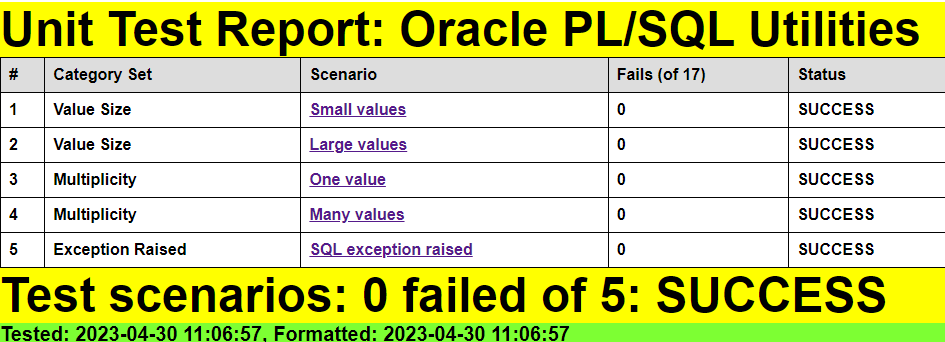
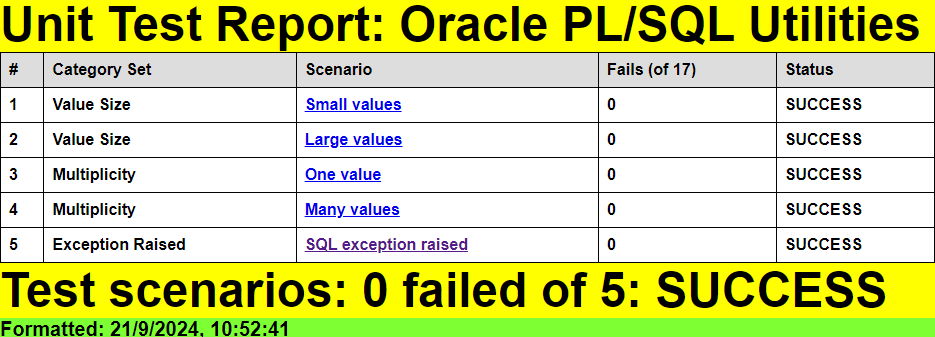
ORA-00942 exception now regex expected value; minor format changes
Oracle 23 has improved text of the exception so need to use '.*' after code for cross-version compatibility; also, small update in bundled JavaScript formatter

Changed region(s): [[0.0, 0.0, 1.0, 0.9199], [0.0, 0.9496, 0.6203, 1.0]]

diff --git a/unit_test/oracle-pl_sql-utilities/many-values.html b/unit_test/oracle-pl_sql-utilities/many-values.html
@@ -431,40 +431,40 @@ h4 {margin-top: 0em; margin-bottom: 0em;
 <h4>GROUP 7: View To List</h4>
 <table>
 <tr><th>#</th><th>Delimited String</th></tr>
-<tr><td>1</td><td>LIKE /CHR_INT_ARR\|\|\d+?\|\|TYPE\|.*?\|.*?\|.*?\|.*?\|.*?\|.*?\|.*?\|.*?\|.*?\|.*?\|.*?\|.*?\|.*?\|.*?\|.*?\|.*?\|.*?\|.*?\|.*?\|.*?/: CHR_INT_ARR||173248||TYPE|12-MAY-2024|12-MAY-2024|2024-05-12:16:39:52|VALID|N|N|N|1||NONE|Y|N|N|USING_NLS_COMP|N|N||||</td></tr>
-<tr><td>2</td><td>LIKE /CHR_INT_REC\|\|\d+?\|\|TYPE\|.*?\|.*?\|.*?\|.*?\|.*?\|.*?\|.*?\|.*?\|.*?\|.*?\|.*?\|.*?\|.*?\|.*?\|.*?\|.*?\|.*?\|.*?\|.*?\|.*?/: CHR_INT_REC||173247||TYPE|12-MAY-2024|12-MAY-2024|2024-05-12:16:39:52|VALID|N|N|N|1||NONE|Y|N|N|USING_NLS_COMP|N|N||||</td></tr>
-<tr><td>3</td><td>LIKE /L1_CHR_ARR\|\|\d+?\|\|TYPE\|.*?\|.*?\|.*?\|.*?\|.*?\|.*?\|.*?\|.*?\|.*?\|.*?\|.*?\|.*?\|.*?\|.*?\|.*?\|.*?\|.*?\|.*?\|.*?\|.*?/: L1_CHR_ARR||173245||TYPE|12-MAY-2024|12-MAY-2024|2024-05-12:16:39:52|VALID|N|N|N|1||NONE|Y|N|N|USING_NLS_COMP|N|N||||</td></tr>
-<tr><td>4</td><td>LIKE /L1_NUM_ARR\|\|\d+?\|\|TYPE\|.*?\|.*?\|.*?\|.*?\|.*?\|.*?\|.*?\|.*?\|.*?\|.*?\|.*?\|.*?\|.*?\|.*?\|.*?\|.*?\|.*?\|.*?\|.*?\|.*?/: L1_NUM_ARR||173246||TYPE|12-MAY-2024|12-MAY-2024|2024-05-12:16:39:52|VALID|N|N|N|1||NONE|Y|N|N|USING_NLS_COMP|N|N||||</td></tr>
-<tr><td>5</td><td>LIKE /L2_CHR_ARR\|\|\d+?\|\|TYPE\|.*?\|.*?\|.*?\|.*?\|.*?\|.*?\|.*?\|.*?\|.*?\|.*?\|.*?\|.*?\|.*?\|.*?\|.*?\|.*?\|.*?\|.*?\|.*?\|.*?/: L2_CHR_ARR||173251||TYPE|12-MAY-2024|12-MAY-2024|2024-05-12:16:40:15|VALID|N|N|N|1||NONE|Y|N|N|USING_NLS_COMP|N|N||||</td></tr>
-<tr><td>6</td><td>LIKE /L3_CHR_ARR\|\|\d+?\|\|TYPE\|.*?\|.*?\|.*?\|.*?\|.*?\|.*?\|.*?\|.*?\|.*?\|.*?\|.*?\|.*?\|.*?\|.*?\|.*?\|.*?\|.*?\|.*?\|.*?\|.*?/: L3_CHR_ARR||173252||TYPE|12-MAY-2024|12-MAY-2024|2024-05-12:16:40:15|VALID|N|N|N|1||NONE|Y|N|N|USING_NLS_COMP|N|N||||</td></tr>
-<tr><td>7</td><td>LIKE /L4_CHR_ARR\|\|\d+?\|\|TYPE\|.*?\|.*?\|.*?\|.*?\|.*?\|.*?\|.*?\|.*?\|.*?\|.*?\|.*?\|.*?\|.*?\|.*?\|.*?\|.*?\|.*?\|.*?\|.*?\|.*?/: L4_CHR_ARR||173253||TYPE|12-MAY-2024|12-MAY-2024|2024-05-12:16:40:15|VALID|N|N|N|1||NONE|Y|N|N|USING_NLS_COMP|N|N||||</td></tr>
-<tr><td>8</td><td>LIKE /TT_UNITS\|\|\d+?\|\d+?\|TABLE\|.*?\|.*?\|.*?\|.*?\|.*?\|.*?\|.*?\|.*?\|.*?\|.*?\|.*?\|.*?\|.*?\|.*?\|.*?\|.*?\|.*?\|.*?\|.*?\|.*?/: TT_UNITS||173254|173254|TABLE|12-MAY-2024|12-MAY-2024|2024-05-12:16:40:15|VALID|N|N|N|1||NONE||N|N|USING_NLS_COMP|N|N||||</td></tr>
+<tr><td>1</td><td>LIKE /CHR_INT_ARR\|\|\d+?\|\|TYPE\|.*?\|.*?\|.*?\|.*?\|.*?\|.*?\|.*?\|.*?\|.*?\|.*?\|.*?\|.*?\|.*?\|.*?\|.*?\|.*?\|.*?\|.*?\|.*?\|.*?/: CHR_INT_ARR||75050||TYPE|21-SEP-2024|21-SEP-2024|2024-09-21:10:45:33|VALID|N|N|N|1||NONE|Y|N|N|USING_NLS_COMP|N|N||||</td></tr>
+<tr><td>2</td><td>LIKE /CHR_INT_REC\|\|\d+?\|\|TYPE\|.*?\|.*?\|.*?\|.*?\|.*?\|.*?\|.*?\|.*?\|.*?\|.*?\|.*?\|.*?\|.*?\|.*?\|.*?\|.*?\|.*?\|.*?\|.*?\|.*?/: CHR_INT_REC||75049||TYPE|07-JUL-2024|07-JUL-2024|2024-07-07:11:08:01|VALID|N|N|N|1||NONE|Y|N|N|USING_NLS_COMP|N|N||||</td></tr>
+<tr><td>3</td><td>LIKE /L1_CHR_ARR\|\|\d+?\|\|TYPE\|.*?\|.*?\|.*?\|.*?\|.*?\|.*?\|.*?\|.*?\|.*?\|.*?\|.*?\|.*?\|.*?\|.*?\|.*?\|.*?\|.*?\|.*?\|.*?\|.*?/: L1_CHR_ARR||75047||TYPE|07-JUL-2024|07-JUL-2024|2024-07-07:11:08:01|VALID|N|N|N|1||NONE|Y|N|N|USING_NLS_COMP|N|N||||</td></tr>
+<tr><td>4</td><td>LIKE /L1_NUM_ARR\|\|\d+?\|\|TYPE\|.*?\|.*?\|.*?\|.*?\|.*?\|.*?\|.*?\|.*?\|.*?\|.*?\|.*?\|.*?\|.*?\|.*?\|.*?\|.*?\|.*?\|.*?\|.*?\|.*?/: L1_NUM_ARR||75048||TYPE|07-JUL-2024|07-JUL-2024|2024-07-07:11:08:01|VALID|N|N|N|1||NONE|Y|N|N|USING_NLS_COMP|N|N||||</td></tr>
+<tr><td>5</td><td>LIKE /L2_CHR_ARR\|\|\d+?\|\|TYPE\|.*?\|.*?\|.*?\|.*?\|.*?\|.*?\|.*?\|.*?\|.*?\|.*?\|.*?\|.*?\|.*?\|.*?\|.*?\|.*?\|.*?\|.*?\|.*?\|.*?/: L2_CHR_ARR||75053||TYPE|07-JUL-2024|07-JUL-2024|2024-07-07:11:08:01|VALID|N|N|N|1||NONE|Y|N|N|USING_NLS_COMP|N|N||||</td></tr>
+<tr><td>6</td><td>LIKE /L3_CHR_ARR\|\|\d+?\|\|TYPE\|.*?\|.*?\|.*?\|.*?\|.*?\|.*?\|.*?\|.*?\|.*?\|.*?\|.*?\|.*?\|.*?\|.*?\|.*?\|.*?\|.*?\|.*?\|.*?\|.*?/: L3_CHR_ARR||75054||TYPE|21-SEP-2024|21-SEP-2024|2024-09-21:10:45:33|VALID|N|N|N|1||NONE|Y|N|N|USING_NLS_COMP|N|N||||</td></tr>
+<tr><td>7</td><td>LIKE /L4_CHR_ARR\|\|\d+?\|\|TYPE\|.*?\|.*?\|.*?\|.*?\|.*?\|.*?\|.*?\|.*?\|.*?\|.*?\|.*?\|.*?\|.*?\|.*?\|.*?\|.*?\|.*?\|.*?\|.*?\|.*?/: L4_CHR_ARR||75055||TYPE|21-SEP-2024|21-SEP-2024|2024-09-21:10:45:33|VALID|N|N|N|1||NONE|Y|N|N|USING_NLS_COMP|N|N||||</td></tr>
+<tr><td>8</td><td>LIKE /TT_UNITS\|\|\d+?\|\d+?\|TABLE\|.*?\|.*?\|.*?\|.*?\|.*?\|.*?\|.*?\|.*?\|.*?\|.*?\|.*?\|.*?\|.*?\|.*?\|.*?\|.*?\|.*?\|.*?\|.*?\|.*?/: TT_UNITS||75282|75282|TABLE|21-SEP-2024|21-SEP-2024|2024-09-21:10:45:33|VALID|N|N|N|1||NONE||N|N|USING_NLS_COMP|N|N||||</td></tr>
 </table>
 <h4>0 failed of 8: SUCCESS</h4>
 <h4>GROUP 8: Cursor To List</h4>
 <table>
 <tr><th>#</th><th>Delimited String</th></tr>
-<tr><td>1</td><td>LIKE /CHR_INT_ARR\|\|\d+?\|\|TYPE\|.*?\|.*?\|.*?\|.*?\|.*?\|.*?\|.*?\|.*?\|.*?\|.*?\|.*?\|.*?\|.*?\|.*?\|.*?\|.*?\|.*?\|.*?\|.*?\|.*?/: CHR_INT_ARR||173248||TYPE|12-MAY-2024|12-MAY-2024|2024-05-12:16:39:52|VALID|N|N|N|1||NONE|Y|N|N|USING_NLS_COMP|N|N||||</td></tr>
-<tr><td>2</td><td>LIKE /CHR_INT_REC\|\|\d+?\|\|TYPE\|.*?\|.*?\|.*?\|.*?\|.*?\|.*?\|.*?\|.*?\|.*?\|.*?\|.*?\|.*?\|.*?\|.*?\|.*?\|.*?\|.*?\|.*?\|.*?\|.*?/: CHR_INT_REC||173247||TYPE|12-MAY-2024|12-MAY-2024|2024-05-12:16:39:52|VALID|N|N|N|1||NONE|Y|N|N|USING_NLS_COMP|N|N||||</td></tr>
-<tr><td>3</td><td>LIKE /L1_CHR_ARR\|\|\d+?\|\|TYPE\|.*?\|.*?\|.*?\|.*?\|.*?\|.*?\|.*?\|.*?\|.*?\|.*?\|.*?\|.*?\|.*?\|.*?\|.*?\|.*?\|.*?\|.*?\|.*?\|.*?/: L1_CHR_ARR||173245||TYPE|12-MAY-2024|12-MAY-2024|2024-05-12:16:39:52|VALID|N|N|N|1||NONE|Y|N|N|USING_NLS_COMP|N|N||||</td></tr>
-<tr><td>4</td><td>LIKE /L1_NUM_ARR\|\|\d+?\|\|TYPE\|.*?\|.*?\|.*?\|.*?\|.*?\|.*?\|.*?\|.*?\|.*?\|.*?\|.*?\|.*?\|.*?\|.*?\|.*?\|.*?\|.*?\|.*?\|.*?\|.*?/: L1_NUM_ARR||173246||TYPE|12-MAY-2024|12-MAY-2024|2024-05-12:16:39:52|VALID|N|N|N|1||NONE|Y|N|N|USING_NLS_COMP|N|N||||</td></tr>
-<tr><td>5</td><td>LIKE /L2_CHR_ARR\|\|\d+?\|\|TYPE\|.*?\|.*?\|.*?\|.*?\|.*?\|.*?\|.*?\|.*?\|.*?\|.*?\|.*?\|.*?\|.*?\|.*?\|.*?\|.*?\|.*?\|.*?\|.*?\|.*?/: L2_CHR_ARR||173251||TYPE|12-MAY-2024|12-MAY-2024|2024-05-12:16:40:15|VALID|N|N|N|1||NONE|Y|N|N|USING_NLS_COMP|N|N||||</td></tr>
-<tr><td>6</td><td>LIKE /L3_CHR_ARR\|\|\d+?\|\|TYPE\|.*?\|.*?\|.*?\|.*?\|.*?\|.*?\|.*?\|.*?\|.*?\|.*?\|.*?\|.*?\|.*?\|.*?\|.*?\|.*?\|.*?\|.*?\|.*?\|.*?/: L3_CHR_ARR||173252||TYPE|12-MAY-2024|12-MAY-2024|2024-05-12:16:40:15|VALID|N|N|N|1||NONE|Y|N|N|USING_NLS_COMP|N|N||||</td></tr>
-<tr><td>7</td><td>LIKE /L4_CHR_ARR\|\|\d+?\|\|TYPE\|.*?\|.*?\|.*?\|.*?\|.*?\|.*?\|.*?\|.*?\|.*?\|.*?\|.*?\|.*?\|.*?\|.*?\|.*?\|.*?\|.*?\|.*?\|.*?\|.*?/: L4_CHR_ARR||173253||TYPE|12-MAY-2024|12-MAY-2024|2024-05-12:16:40:15|VALID|N|N|N|1||NONE|Y|N|N|USING_NLS_COMP|N|N||||</td></tr>
-<tr><td>8</td><td>LIKE /TT_UNITS\|\|\d+?\|\d+?\|TABLE\|.*?\|.*?\|.*?\|.*?\|.*?\|.*?\|.*?\|.*?\|.*?\|.*?\|.*?\|.*?\|.*?\|.*?\|.*?\|.*?\|.*?\|.*?\|.*?\|.*?/: TT_UNITS||173254|173254|TABLE|12-MAY-2024|12-MAY-2024|2024-05-12:16:40:15|VALID|N|N|N|1||NONE||N|N|USING_NLS_COMP|N|N||||</td></tr>
+<tr><td>1</td><td>LIKE /CHR_INT_ARR\|\|\d+?\|\|TYPE\|.*?\|.*?\|.*?\|.*?\|.*?\|.*?\|.*?\|.*?\|.*?\|.*?\|.*?\|.*?\|.*?\|.*?\|.*?\|.*?\|.*?\|.*?\|.*?\|.*?/: CHR_INT_ARR||75050||TYPE|21-SEP-2024|21-SEP-2024|2024-09-21:10:45:33|VALID|N|N|N|1||NONE|Y|N|N|USING_NLS_COMP|N|N||||</td></tr>
+<tr><td>2</td><td>LIKE /CHR_INT_REC\|\|\d+?\|\|TYPE\|.*?\|.*?\|.*?\|.*?\|.*?\|.*?\|.*?\|.*?\|.*?\|.*?\|.*?\|.*?\|.*?\|.*?\|.*?\|.*?\|.*?\|.*?\|.*?\|.*?/: CHR_INT_REC||75049||TYPE|07-JUL-2024|07-JUL-2024|2024-07-07:11:08:01|VALID|N|N|N|1||NONE|Y|N|N|USING_NLS_COMP|N|N||||</td></tr>
+<tr><td>3</td><td>LIKE /L1_CHR_ARR\|\|\d+?\|\|TYPE\|.*?\|.*?\|.*?\|.*?\|.*?\|.*?\|.*?\|.*?\|.*?\|.*?\|.*?\|.*?\|.*?\|.*?\|.*?\|.*?\|.*?\|.*?\|.*?\|.*?/: L1_CHR_ARR||75047||TYPE|07-JUL-2024|07-JUL-2024|2024-07-07:11:08:01|VALID|N|N|N|1||NONE|Y|N|N|USING_NLS_COMP|N|N||||</td></tr>
+<tr><td>4</td><td>LIKE /L1_NUM_ARR\|\|\d+?\|\|TYPE\|.*?\|.*?\|.*?\|.*?\|.*?\|.*?\|.*?\|.*?\|.*?\|.*?\|.*?\|.*?\|.*?\|.*?\|.*?\|.*?\|.*?\|.*?\|.*?\|.*?/: L1_NUM_ARR||75048||TYPE|07-JUL-2024|07-JUL-2024|2024-07-07:11:08:01|VALID|N|N|N|1||NONE|Y|N|N|USING_NLS_COMP|N|N||||</td></tr>
+<tr><td>5</td><td>LIKE /L2_CHR_ARR\|\|\d+?\|\|TYPE\|.*?\|.*?\|.*?\|.*?\|.*?\|.*?\|.*?\|.*?\|.*?\|.*?\|.*?\|.*?\|.*?\|.*?\|.*?\|.*?\|.*?\|.*?\|.*?\|.*?/: L2_CHR_ARR||75053||TYPE|07-JUL-2024|07-JUL-2024|2024-07-07:11:08:01|VALID|N|N|N|1||NONE|Y|N|N|USING_NLS_COMP|N|N||||</td></tr>
+<tr><td>6</td><td>LIKE /L3_CHR_ARR\|\|\d+?\|\|TYPE\|.*?\|.*?\|.*?\|.*?\|.*?\|.*?\|.*?\|.*?\|.*?\|.*?\|.*?\|.*?\|.*?\|.*?\|.*?\|.*?\|.*?\|.*?\|.*?\|.*?/: L3_CHR_ARR||75054||TYPE|21-SEP-2024|21-SEP-2024|2024-09-21:10:45:33|VALID|N|N|N|1||NONE|Y|N|N|USING_NLS_COMP|N|N||||</td></tr>
+<tr><td>7</td><td>LIKE /L4_CHR_ARR\|\|\d+?\|\|TYPE\|.*?\|.*?\|.*?\|.*?\|.*?\|.*?\|.*?\|.*?\|.*?\|.*?\|.*?\|.*?\|.*?\|.*?\|.*?\|.*?\|.*?\|.*?\|.*?\|.*?/: L4_CHR_ARR||75055||TYPE|21-SEP-2024|21-SEP-2024|2024-09-21:10:45:33|VALID|N|N|N|1||NONE|Y|N|N|USING_NLS_COMP|N|N||||</td></tr>
+<tr><td>8</td><td>LIKE /TT_UNITS\|\|\d+?\|\d+?\|TABLE\|.*?\|.*?\|.*?\|.*?\|.*?\|.*?\|.*?\|.*?\|.*?\|.*?\|.*?\|.*?\|.*?\|.*?\|.*?\|.*?\|.*?\|.*?\|.*?\|.*?/: TT_UNITS||75282|75282|TABLE|21-SEP-2024|21-SEP-2024|2024-09-21:10:45:33|VALID|N|N|N|1||NONE||N|N|USING_NLS_COMP|N|N||||</td></tr>
 </table>
 <h4>0 failed of 8: SUCCESS</h4>
 <h4>GROUP 9: Cursor To Pipe</h4>
 <table>
 <tr><th>#</th><th>Delimited String</th></tr>
-<tr><td>1</td><td>LIKE /CHR_INT_ARR\|\|\d+?\|\|TYPE\|.*?\|.*?\|.*?\|.*?\|.*?\|.*?\|.*?\|.*?\|.*?\|.*?\|.*?\|.*?\|.*?\|.*?\|.*?\|.*?\|.*?\|.*?\|.*?\|.*?/: CHR_INT_ARR||173248||TYPE|12-MAY-2024|12-MAY-2024|2024-05-12:16:39:52|VALID|N|N|N|1||NONE|Y|N|N|USING_NLS_COMP|N|N||||</td></tr>
-<tr><td>2</td><td>LIKE /CHR_INT_REC\|\|\d+?\|\|TYPE\|.*?\|.*?\|.*?\|.*?\|.*?\|.*?\|.*?\|.*?\|.*?\|.*?\|.*?\|.*?\|.*?\|.*?\|.*?\|.*?\|.*?\|.*?\|.*?\|.*?/: CHR_INT_REC||173247||TYPE|12-MAY-2024|12-MAY-2024|2024-05-12:16:39:52|VALID|N|N|N|1||NONE|Y|N|N|USING_NLS_COMP|N|N||||</td></tr>
-<tr><td>3</td><td>LIKE /L1_CHR_ARR\|\|\d+?\|\|TYPE\|.*?\|.*?\|.*?\|.*?\|.*?\|.*?\|.*?\|.*?\|.*?\|.*?\|.*?\|.*?\|.*?\|.*?\|.*?\|.*?\|.*?\|.*?\|.*?\|.*?/: L1_CHR_ARR||173245||TYPE|12-MAY-2024|12-MAY-2024|2024-05-12:16:39:52|VALID|N|N|N|1||NONE|Y|N|N|USING_NLS_COMP|N|N||||</td></tr>
-<tr><td>4</td><td>LIKE /L1_NUM_ARR\|\|\d+?\|\|TYPE\|.*?\|.*?\|.*?\|.*?\|.*?\|.*?\|.*?\|.*?\|.*?\|.*?\|.*?\|.*?\|.*?\|.*?\|.*?\|.*?\|.*?\|.*?\|.*?\|.*?/: L1_NUM_ARR||173246||TYPE|12-MAY-2024|12-MAY-2024|2024-05-12:16:39:52|VALID|N|N|N|1||NONE|Y|N|N|USING_NLS_COMP|N|N||||</td></tr>
-<tr><td>5</td><td>LIKE /L2_CHR_ARR\|\|\d+?\|\|TYPE\|.*?\|.*?\|.*?\|.*?\|.*?\|.*?\|.*?\|.*?\|.*?\|.*?\|.*?\|.*?\|.*?\|.*?\|.*?\|.*?\|.*?\|.*?\|.*?\|.*?/: L2_CHR_ARR||173251||TYPE|12-MAY-2024|12-MAY-2024|2024-05-12:16:40:15|VALID|N|N|N|1||NONE|Y|N|N|USING_NLS_COMP|N|N||||</td></tr>
-<tr><td>6</td><td>LIKE /L3_CHR_ARR\|\|\d+?\|\|TYPE\|.*?\|.*?\|.*?\|.*?\|.*?\|.*?\|.*?\|.*?\|.*?\|.*?\|.*?\|.*?\|.*?\|.*?\|.*?\|.*?\|.*?\|.*?\|.*?\|.*?/: L3_CHR_ARR||173252||TYPE|12-MAY-2024|12-MAY-2024|2024-05-12:16:40:15|VALID|N|N|N|1||NONE|Y|N|N|USING_NLS_COMP|N|N||||</td></tr>
-<tr><td>7</td><td>LIKE /L4_CHR_ARR\|\|\d+?\|\|TYPE\|.*?\|.*?\|.*?\|.*?\|.*?\|.*?\|.*?\|.*?\|.*?\|.*?\|.*?\|.*?\|.*?\|.*?\|.*?\|.*?\|.*?\|.*?\|.*?\|.*?/: L4_CHR_ARR||173253||TYPE|12-MAY-2024|12-MAY-2024|2024-05-12:16:40:15|VALID|N|N|N|1||NONE|Y|N|N|USING_NLS_COMP|N|N||||</td></tr>
-<tr><td>8</td><td>LIKE /TT_UNITS\|\|\d+?\|\d+?\|TABLE\|.*?\|.*?\|.*?\|.*?\|.*?\|.*?\|.*?\|.*?\|.*?\|.*?\|.*?\|.*?\|.*?\|.*?\|.*?\|.*?\|.*?\|.*?\|.*?\|.*?/: TT_UNITS||173254|173254|TABLE|12-MAY-2024|12-MAY-2024|2024-05-12:16:40:15|VALID|N|N|N|1||NONE||N|N|USING_NLS_COMP|N|N||||</td></tr>
+<tr><td>1</td><td>LIKE /CHR_INT_ARR\|\|\d+?\|\|TYPE\|.*?\|.*?\|.*?\|.*?\|.*?\|.*?\|.*?\|.*?\|.*?\|.*?\|.*?\|.*?\|.*?\|.*?\|.*?\|.*?\|.*?\|.*?\|.*?\|.*?/: CHR_INT_ARR||75050||TYPE|21-SEP-2024|21-SEP-2024|2024-09-21:10:45:33|VALID|N|N|N|1||NONE|Y|N|N|USING_NLS_COMP|N|N||||</td></tr>
+<tr><td>2</td><td>LIKE /CHR_INT_REC\|\|\d+?\|\|TYPE\|.*?\|.*?\|.*?\|.*?\|.*?\|.*?\|.*?\|.*?\|.*?\|.*?\|.*?\|.*?\|.*?\|.*?\|.*?\|.*?\|.*?\|.*?\|.*?\|.*?/: CHR_INT_REC||75049||TYPE|07-JUL-2024|07-JUL-2024|2024-07-07:11:08:01|VALID|N|N|N|1||NONE|Y|N|N|USING_NLS_COMP|N|N||||</td></tr>
+<tr><td>3</td><td>LIKE /L1_CHR_ARR\|\|\d+?\|\|TYPE\|.*?\|.*?\|.*?\|.*?\|.*?\|.*?\|.*?\|.*?\|.*?\|.*?\|.*?\|.*?\|.*?\|.*?\|.*?\|.*?\|.*?\|.*?\|.*?\|.*?/: L1_CHR_ARR||75047||TYPE|07-JUL-2024|07-JUL-2024|2024-07-07:11:08:01|VALID|N|N|N|1||NONE|Y|N|N|USING_NLS_COMP|N|N||||</td></tr>
+<tr><td>4</td><td>LIKE /L1_NUM_ARR\|\|\d+?\|\|TYPE\|.*?\|.*?\|.*?\|.*?\|.*?\|.*?\|.*?\|.*?\|.*?\|.*?\|.*?\|.*?\|.*?\|.*?\|.*?\|.*?\|.*?\|.*?\|.*?\|.*?/: L1_NUM_ARR||75048||TYPE|07-JUL-2024|07-JUL-2024|2024-07-07:11:08:01|VALID|N|N|N|1||NONE|Y|N|N|USING_NLS_COMP|N|N||||</td></tr>
+<tr><td>5</td><td>LIKE /L2_CHR_ARR\|\|\d+?\|\|TYPE\|.*?\|.*?\|.*?\|.*?\|.*?\|.*?\|.*?\|.*?\|.*?\|.*?\|.*?\|.*?\|.*?\|.*?\|.*?\|.*?\|.*?\|.*?\|.*?\|.*?/: L2_CHR_ARR||75053||TYPE|07-JUL-2024|07-JUL-2024|2024-07-07:11:08:01|VALID|N|N|N|1||NONE|Y|N|N|USING_NLS_COMP|N|N||||</td></tr>
+<tr><td>6</td><td>LIKE /L3_CHR_ARR\|\|\d+?\|\|TYPE\|.*?\|.*?\|.*?\|.*?\|.*?\|.*?\|.*?\|.*?\|.*?\|.*?\|.*?\|.*?\|.*?\|.*?\|.*?\|.*?\|.*?\|.*?\|.*?\|.*?/: L3_CHR_ARR||75054||TYPE|21-SEP-2024|21-SEP-2024|2024-09-21:10:45:33|VALID|N|N|N|1||NONE|Y|N|N|USING_NLS_COMP|N|N||||</td></tr>
+<tr><td>7</td><td>LIKE /L4_CHR_ARR\|\|\d+?\|\|TYPE\|.*?\|.*?\|.*?\|.*?\|.*?\|.*?\|.*?\|.*?\|.*?\|.*?\|.*?\|.*?\|.*?\|.*?\|.*?\|.*?\|.*?\|.*?\|.*?\|.*?/: L4_CHR_ARR||75055||TYPE|21-SEP-2024|21-SEP-2024|2024-09-21:10:45:33|VALID|N|N|N|1||NONE|Y|N|N|USING_NLS_COMP|N|N||||</td></tr>
+<tr><td>8</td><td>LIKE /TT_UNITS\|\|\d+?\|\d+?\|TABLE\|.*?\|.*?\|.*?\|.*?\|.*?\|.*?\|.*?\|.*?\|.*?\|.*?\|.*?\|.*?\|.*?\|.*?\|.*?\|.*?\|.*?\|.*?\|.*?\|.*?/: TT_UNITS||75282|75282|TABLE|21-SEP-2024|21-SEP-2024|2024-09-21:10:45:33|VALID|N|N|N|1||NONE||N|N|USING_NLS_COMP|N|N||||</td></tr>
 </table>
 <h4>0 failed of 8: SUCCESS</h4>
 <h4>GROUP 10: Interval To Seconds: Empty as expected: SUCCESS</h4>

diff --git a/unit_test/oracle-pl_sql-utilities/large-values.html b/unit_test/oracle-pl_sql-utilities/large-values.html
@@ -199,40 +199,40 @@ h4 {margin-top: 0em; margin-bottom: 0em;
 <h4>GROUP 7: View To List</h4>
 <table>
 <tr><th>#</th><th>Delimited String</th></tr>
-<tr><td>1</td><td>LIKE /CHR_INT_ARR,\d+?,\d.+\d,\d.+\d/: CHR_INT_ARR,173248,12-MAY-2024,2024-05-12:16:39:52</td></tr>
-<tr><td>2</td><td>LIKE /CHR_INT_REC,\d+?,\d.+\d,\d.+\d/: CHR_INT_REC,173247,12-MAY-2024,2024-05-12:16:39:52</td></tr>
-<tr><td>3</td><td>LIKE /L1_CHR_ARR,\d+?,\d.+\d,\d.+\d/: L1_CHR_ARR,173245,12-MAY-2024,2024-05-12:16:39:52</td></tr>
-<tr><td>4</td><td>LIKE /L1_NUM_ARR,\d+?,\d.+\d,\d.+\d/: L1_NUM_ARR,173246,12-MAY-2024,2024-05-12:16:39:52</td></tr>
-<tr><td>5</td><td>LIKE /L2_CHR_ARR,\d+?,\d.+\d,\d.+\d/: L2_CHR_ARR,173251,12-MAY-2024,2024-05-12:16:40:15</td></tr>
-<tr><td>6</td><td>LIKE /L3_CHR_ARR,\d+?,\d.+\d,\d.+\d/: L3_CHR_ARR,173252,12-MAY-2024,2024-05-12:16:40:15</td></tr>
-<tr><td>7</td><td>LIKE /L4_CHR_ARR,\d+?,\d.+\d,\d.+\d/: L4_CHR_ARR,173253,12-MAY-2024,2024-05-12:16:40:15</td></tr>
-<tr><td>8</td><td>LIKE /TT_UNITS,\d+?,\d.+\d,\d.+\d/: TT_UNITS,173254,12-MAY-2024,2024-05-12:16:40:15</td></tr>
+<tr><td>1</td><td>LIKE /CHR_INT_ARR,\d+?,\d.+\d,\d.+\d/: CHR_INT_ARR,75050,21-SEP-2024,2024-09-21:10:45:33</td></tr>
+<tr><td>2</td><td>LIKE /CHR_INT_REC,\d+?,\d.+\d,\d.+\d/: CHR_INT_REC,75049,07-JUL-2024,2024-07-07:11:08:01</td></tr>
+<tr><td>3</td><td>LIKE /L1_CHR_ARR,\d+?,\d.+\d,\d.+\d/: L1_CHR_ARR,75047,07-JUL-2024,2024-07-07:11:08:01</td></tr>
+<tr><td>4</td><td>LIKE /L1_NUM_ARR,\d+?,\d.+\d,\d.+\d/: L1_NUM_ARR,75048,07-JUL-2024,2024-07-07:11:08:01</td></tr>
+<tr><td>5</td><td>LIKE /L2_CHR_ARR,\d+?,\d.+\d,\d.+\d/: L2_CHR_ARR,75053,07-JUL-2024,2024-07-07:11:08:01</td></tr>
+<tr><td>6</td><td>LIKE /L3_CHR_ARR,\d+?,\d.+\d,\d.+\d/: L3_CHR_ARR,75054,21-SEP-2024,2024-09-21:10:45:33</td></tr>
+<tr><td>7</td><td>LIKE /L4_CHR_ARR,\d+?,\d.+\d,\d.+\d/: L4_CHR_ARR,75055,21-SEP-2024,2024-09-21:10:45:33</td></tr>
+<tr><td>8</td><td>LIKE /TT_UNITS,\d+?,\d.+\d,\d.+\d/: TT_UNITS,75282,21-SEP-2024,2024-09-21:10:45:33</td></tr>
 </table>
 <h4>0 failed of 8: SUCCESS</h4>
 <h4>GROUP 8: Cursor To List</h4>
 <table>
 <tr><th>#</th><th>Delimited String</th></tr>
-<tr><td>1</td><td>LIKE /CHR_INT_ARR,\d+?,\d.+\d,\d.+\d/: CHR_INT_ARR,173248,12-MAY-2024,2024-05-12:16:39:52</td></tr>
-<tr><td>2</td><td>LIKE /CHR_INT_REC,\d+?,\d.+\d,\d.+\d/: CHR_INT_REC,173247,12-MAY-2024,2024-05-12:16:39:52</td></tr>
-<tr><td>3</td><td>LIKE /L1_CHR_ARR,\d+?,\d.+\d,\d.+\d/: L1_CHR_ARR,173245,12-MAY-2024,2024-05-12:16:39:52</td></tr>
-<tr><td>4</td><td>LIKE /L1_NUM_ARR,\d+?,\d.+\d,\d.+\d/: L1_NUM_ARR,173246,12-MAY-2024,2024-05-12:16:39:52</td></tr>
-<tr><td>5</td><td>LIKE /L2_CHR_ARR,\d+?,\d.+\d,\d.+\d/: L2_CHR_ARR,173251,12-MAY-2024,2024-05-12:16:40:15</td></tr>
-<tr><td>6</td><td>LIKE /L3_CHR_ARR,\d+?,\d.+\d,\d.+\d/: L3_CHR_ARR,173252,12-MAY-2024,2024-05-12:16:40:15</td></tr>
-<tr><td>7</td><td>LIKE /L4_CHR_ARR,\d+?,\d.+\d,\d.+\d/: L4_CHR_ARR,173253,12-MAY-2024,2024-05-12:16:40:15</td></tr>
-<tr><td>8</td><td>LIKE /TT_UNITS,\d+?,\d.+\d,\d.+\d/: TT_UNITS,173254,12-MAY-2024,2024-05-12:16:40:15</td></tr>
+<tr><td>1</td><td>LIKE /CHR_INT_ARR,\d+?,\d.+\d,\d.+\d/: CHR_INT_ARR,75050,21-SEP-2024,2024-09-21:10:45:33</td></tr>
+<tr><td>2</td><td>LIKE /CHR_INT_REC,\d+?,\d.+\d,\d.+\d/: CHR_INT_REC,75049,07-JUL-2024,2024-07-07:11:08:01</td></tr>
+<tr><td>3</td><td>LIKE /L1_CHR_ARR,\d+?,\d.+\d,\d.+\d/: L1_CHR_ARR,75047,07-JUL-2024,2024-07-07:11:08:01</td></tr>
+<tr><td>4</td><td>LIKE /L1_NUM_ARR,\d+?,\d.+\d,\d.+\d/: L1_NUM_ARR,75048,07-JUL-2024,2024-07-07:11:08:01</td></tr>
+<tr><td>5</td><td>LIKE /L2_CHR_ARR,\d+?,\d.+\d,\d.+\d/: L2_CHR_ARR,75053,07-JUL-2024,2024-07-07:11:08:01</td></tr>
+<tr><td>6</td><td>LIKE /L3_CHR_ARR,\d+?,\d.+\d,\d.+\d/: L3_CHR_ARR,75054,21-SEP-2024,2024-09-21:10:45:33</td></tr>
+<tr><td>7</td><td>LIKE /L4_CHR_ARR,\d+?,\d.+\d,\d.+\d/: L4_CHR_ARR,75055,21-SEP-2024,2024-09-21:10:45:33</td></tr>
+<tr><td>8</td><td>LIKE /TT_UNITS,\d+?,\d.+\d,\d.+\d/: TT_UNITS,75282,21-SEP-2024,2024-09-21:10:45:33</td></tr>
 </table>
 <h4>0 failed of 8: SUCCESS</h4>
 <h4>GROUP 9: Cursor To Pipe</h4>
 <table>
 <tr><th>#</th><th>Delimited String</th></tr>
-<tr><td>1</td><td>LIKE /CHR_INT_ARR,\d+?,\d.+\d,\d.+\d/: CHR_INT_ARR,173248,12-MAY-2024,2024-05-12:16:39:52</td></tr>
-<tr><td>2</td><td>LIKE /CHR_INT_REC,\d+?,\d.+\d,\d.+\d/: CHR_INT_REC,173247,12-MAY-2024,2024-05-12:16:39:52</td></tr>
-<tr><td>3</td><td>LIKE /L1_CHR_ARR,\d+?,\d.+\d,\d.+\d/: L1_CHR_ARR,173245,12-MAY-2024,2024-05-12:16:39:52</td></tr>
-<tr><td>4</td><td>LIKE /L1_NUM_ARR,\d+?,\d.+\d,\d.+\d/: L1_NUM_ARR,173246,12-MAY-2024,2024-05-12:16:39:52</td></tr>
-<tr><td>5</td><td>LIKE /L2_CHR_ARR,\d+?,\d.+\d,\d.+\d/: L2_CHR_ARR,173251,12-MAY-2024,2024-05-12:16:40:15</td></tr>
-<tr><td>6</td><td>LIKE /L3_CHR_ARR,\d+?,\d.+\d,\d.+\d/: L3_CHR_ARR,173252,12-MAY-2024,2024-05-12:16:40:15</td></tr>
-<tr><td>7</td><td>LIKE /L4_CHR_ARR,\d+?,\d.+\d,\d.+\d/: L4_CHR_ARR,173253,12-MAY-2024,2024-05-12:16:40:15</td></tr>
-<tr><td>8</td><td>LIKE /TT_UNITS,\d+?,\d.+\d,\d.+\d/: TT_UNITS,173254,12-MAY-2024,2024-05-12:16:40:15</td></tr>
+<tr><td>1</td><td>LIKE /CHR_INT_ARR,\d+?,\d.+\d,\d.+\d/: CHR_INT_ARR,75050,21-SEP-2024,2024-09-21:10:45:33</td></tr>
+<tr><td>2</td><td>LIKE /CHR_INT_REC,\d+?,\d.+\d,\d.+\d/: CHR_INT_REC,75049,07-JUL-2024,2024-07-07:11:08:01</td></tr>
+<tr><td>3</td><td>LIKE /L1_CHR_ARR,\d+?,\d.+\d,\d.+\d/: L1_CHR_ARR,75047,07-JUL-2024,2024-07-07:11:08:01</td></tr>
+<tr><td>4</td><td>LIKE /L1_NUM_ARR,\d+?,\d.+\d,\d.+\d/: L1_NUM_ARR,75048,07-JUL-2024,2024-07-07:11:08:01</td></tr>
+<tr><td>5</td><td>LIKE /L2_CHR_ARR,\d+?,\d.+\d,\d.+\d/: L2_CHR_ARR,75053,07-JUL-2024,2024-07-07:11:08:01</td></tr>
+<tr><td>6</td><td>LIKE /L3_CHR_ARR,\d+?,\d.+\d,\d.+\d/: L3_CHR_ARR,75054,21-SEP-2024,2024-09-21:10:45:33</td></tr>
+<tr><td>7</td><td>LIKE /L4_CHR_ARR,\d+?,\d.+\d,\d.+\d/: L4_CHR_ARR,75055,21-SEP-2024,2024-09-21:10:45:33</td></tr>
+<tr><td>8</td><td>LIKE /TT_UNITS,\d+?,\d.+\d,\d.+\d/: TT_UNITS,75282,21-SEP-2024,2024-09-21:10:45:33</td></tr>
 </table>
 <h4>0 failed of 8: SUCCESS</h4>
 <h4>GROUP 10: Interval To Seconds</h4>
@@ -244,7 +244,7 @@ h4 {margin-top: 0em; margin-bottom: 0em;
 <h4>GROUP 11: Sleep</h4>
 <table>
 <tr><th>#</th><th>Elapsed Seconds</th><th>CPU Seconds</th></tr>
-<tr><td>1</td><td>IN [1.9,2.1]: 2.013</td><td>IN [0.02,0.21]: .21</td></tr>
+<tr><td>1</td><td>IN [1.9,2.1]: 2.00265</td><td>IN [0.02,0.21]: .1</td></tr>
 </table>
 <h4>0 failed of 1: SUCCESS</h4>
 <h4>GROUP 12: Exception</h4>

diff --git a/unit_test/oracle-pl_sql-utilities/sql-exception-raised.html b/unit_test/oracle-pl_sql-utilities/sql-exception-raised.html
@@ -101,9 +101,9 @@ h4 {margin-top: 0em; margin-bottom: 0em;
 <h4>GROUP 12: Exception</h4>
 <table>
 <tr><th>#</th><th>Source</th><th>Message</th></tr>
-<tr><td>1</td><td>view_To_List</td><td>ORA-00942: table or view does not exist</td></tr>
-<tr><td>2</td><td>cursor_To_List</td><td>ORA-00942: table or view does not exist</td></tr>
-<tr><td>3</td><td>cursor_To_Pipe</td><td>ORA-00942: table or view does not exist</td></tr>
+<tr><td>1</td><td>view_To_List</td><td>LIKE /ORA-00942: .*/: ORA-00942: table or view "LIB"."BAD_USER_TYPES" does not exist</td></tr>
+<tr><td>2</td><td>cursor_To_List</td><td>LIKE /ORA-00942: .*/: ORA-00942: table or view "LIB"."BAD_USER_TYPES" does not exist</td></tr>
+<tr><td>3</td><td>cursor_To_Pipe</td><td>LIKE /ORA-00942: .*/: ORA-00942: table or view "LIB"."BAD_USER_TYPES" does not exist</td></tr>
 </table>
 <h4>0 failed of 3: SUCCESS</h4>
 <h4>GROUP 13: W (Line): Empty as expected: SUCCESS</h4>

diff --git a/unit_test/oracle-pl_sql-utilities/oracle-pl_sql-utilities.html b/unit_test/oracle-pl_sql-utilities/oracle-pl_sql-utilities.html
@@ -59,5 +59,5 @@ h4 {margin-top: 0em; margin-bottom: 0em;
 <tr><td>5</td><td>Exception Raised</td><td><a href="sql-exception-raised.html" target="_blank">SQL exception raised</a></td><td>0</td><td>SUCCESS</td></tr>
 </table>
 <h1>Test scenarios: 0 failed of 5: SUCCESS</h1>
-<h4>Tested: 2024-05-12 15:41:39, Formatted: 2024-05-12 15:41:39</h4>
+<h4>Formatted: 21/9/2024, 13:45:16</h4>
 </body></html>

diff --git a/unit_test/oracle-pl_sql-utilities/small-values.html b/unit_test/oracle-pl_sql-utilities/small-values.html
@@ -230,7 +230,7 @@ h4 {margin-top: 0em; margin-bottom: 0em;
 <h4>GROUP 11: Sleep</h4>
 <table>
 <tr><th>#</th><th>Elapsed Seconds</th><th>CPU Seconds</th></tr>
-<tr><td>1</td><td>IN [0.9,1.1]: 1.006</td><td>IN [0.1,0.51]: .28</td></tr>
+<tr><td>1</td><td>IN [0.9,1.1]: 1.010014</td><td>IN [0.1,0.51]: .27</td></tr>
 </table>
 <h4>0 failed of 1: SUCCESS</h4>
 <h4>GROUP 12: Exception</h4>

diff --git a/unit_test/oracle-pl_sql-utilities/one-value.html b/unit_test/oracle-pl_sql-utilities/one-value.html
@@ -212,7 +212,7 @@ h4 {margin-top: 0em; margin-bottom: 0em;
 <h4>GROUP 11: Sleep</h4>
 <table>
 <tr><th>#</th><th>Elapsed Seconds</th><th>CPU Seconds</th></tr>
-<tr><td>1</td><td>IN [0.9,1.1]: 1</td><td>IN [0.01,0.51]: .47</td></tr>
+<tr><td>1</td><td>IN [0.9,1.1]: 1.002092</td><td>IN [0.01,0.51]: .14</td></tr>
 </table>
 <h4>0 failed of 1: SUCCESS</h4>
 <h4>GROUP 12: Exception</h4>

diff --git a/README.md b/README.md
@@ -563,7 +563,7 @@ Here is a diagram of the input and output groups for this example:
 From the input and output groups depicted we can construct CSV files with flattened group/field structures, and default values added, as follows (with `tt_utils.purely_wrap_utils_inp.csv` left, `tt_utils.purely_wrap_utils_out.csv` right):
 <img src="png/groups - utils.png">
 
-These form two of the three input files for the Powershell script that generates a template ofr the input JSON file. The third is the scenarios file, shown in the next section.
+These form two of the three input files for the Powershell script that generates a template for the input JSON file. The third is the scenarios file, shown in the next section.
 
 ##### Scenario Category ANalysis (SCAN)
 [&uarr; Step 1: Create JSON File](#step-1-create-json-file)<br />
@@ -812,7 +812,7 @@ The project folder structure is shown below.
 
 <img src="png/folders.png">
 
-There are six subfolders below the trapit root folder:
+There are six subfolders below the root folder:
 - `app`: Application schema folder (main)
 - `install_prereq`: Installation prerequisites
 - `lib`: Library schema folder (main)
